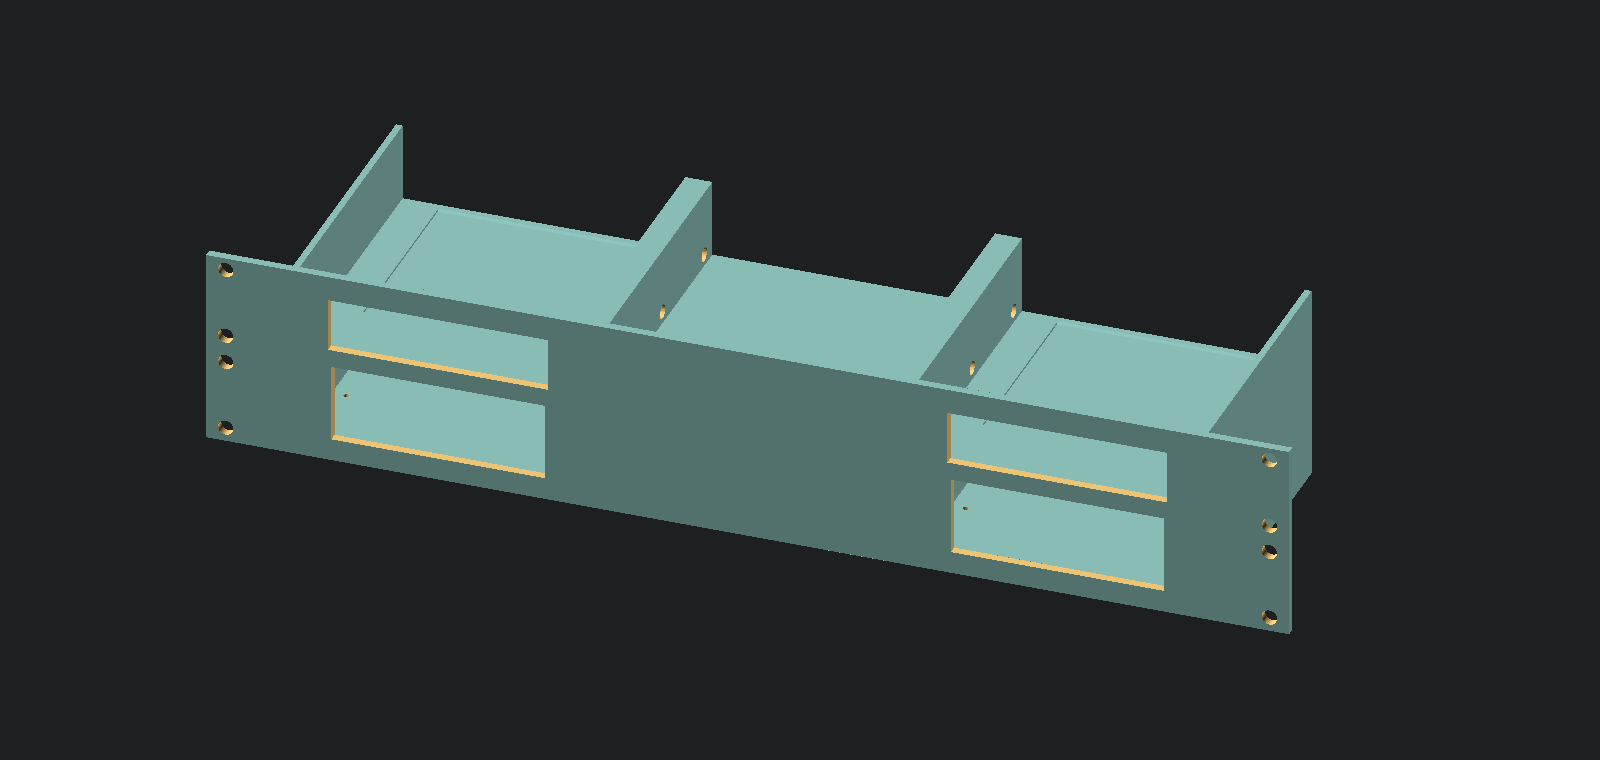
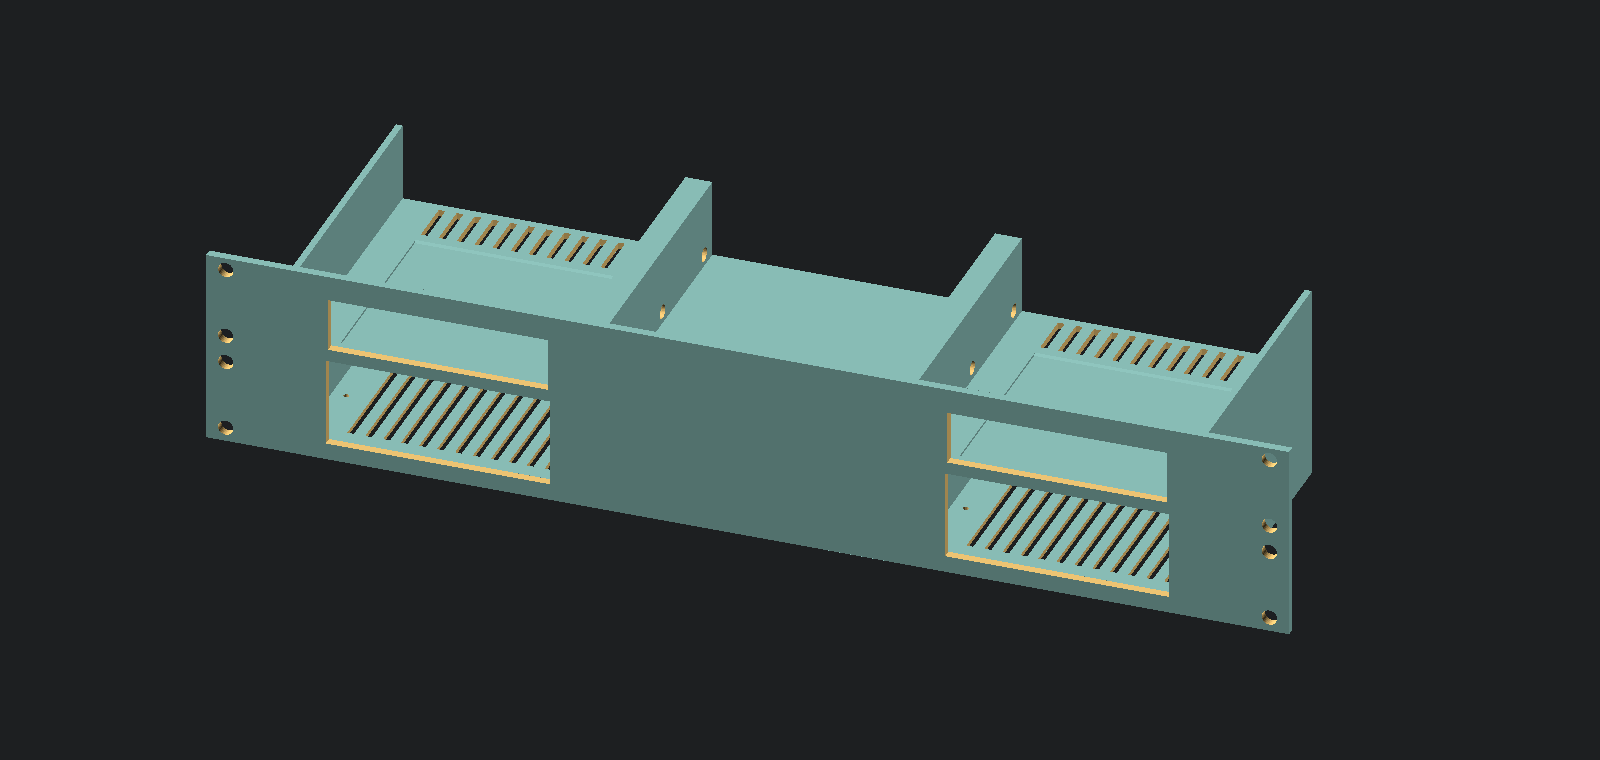
fix(audio-2u): seat the AirPort front-flush behind its window, vent behind it
The AirPort bay was rear-flush, leaving the AirPort 28 mm behind the front
window. It now sits against the front plate; the exhaust slots in the upper
floor move from ahead of the AirPort to behind it.

diff --git a/README.md b/README.md
@@ -149,11 +149,11 @@ seam total on this panel) = **3 bolts, 3 nuts, 2 dowels**.
 Three bolt-together columns. Each stack pairs one AirPort Express (upper U)
 directly above one Kinter MA170 amp (lower U), one stack per AirPlay zone.
 
-- **Columns 1 & 3 (zones 1 and 2):** AirPort rear-flush with a full-face front
-  window + floor dimple; Kinter behind a 100 x 40mm window its knobs poke
+- **Columns 1 & 3 (zones 1 and 2):** AirPort front-flush (face against the plate, behind a full-face
+  window for the status light) + floor dimple; Kinter behind a 100 x 40mm window its knobs poke
   through (they stand 20mm proud of the front plate, for finger adjustment),
   with two printed screw bosses under the amp's factory mounting tabs.
-  Front-to-back vent slots under the amp and in the upper floor ahead of the
+  Front-to-back vent slots under the amp and in the upper floor behind the
   AirPort let its heat rise out of the stack. The amp
   floor sits 4mm up so those bosses stay inside the panel, and the AirPort
   floor sits 1mm above the amp rather than on the U line.
@@ -176,8 +176,8 @@ dowels** total across both seams.
    meets the front plate, and screw it to the floor bosses through the
    amp's factory tabs. The two driver holes in the upper floor sit straight
    above the tab screws: lower each screw through on the driver.
-4. Slide each AirPort Express into its upper U from the rear until it drops
-   into the floor dimple. The driver holes stay clear either side of it, so
+4. Slide each AirPort Express into its upper U from the rear until its face
+   meets the front plate and it drops into the floor dimple. The driver holes stay clear either side of it, so
    an amp can come out without disturbing the AirPort.
 5. Mount with M6 cage nuts — these columns carry protruding ear tabs that
    reach the rack's true 482.6mm width (the 3 columns' own content only
